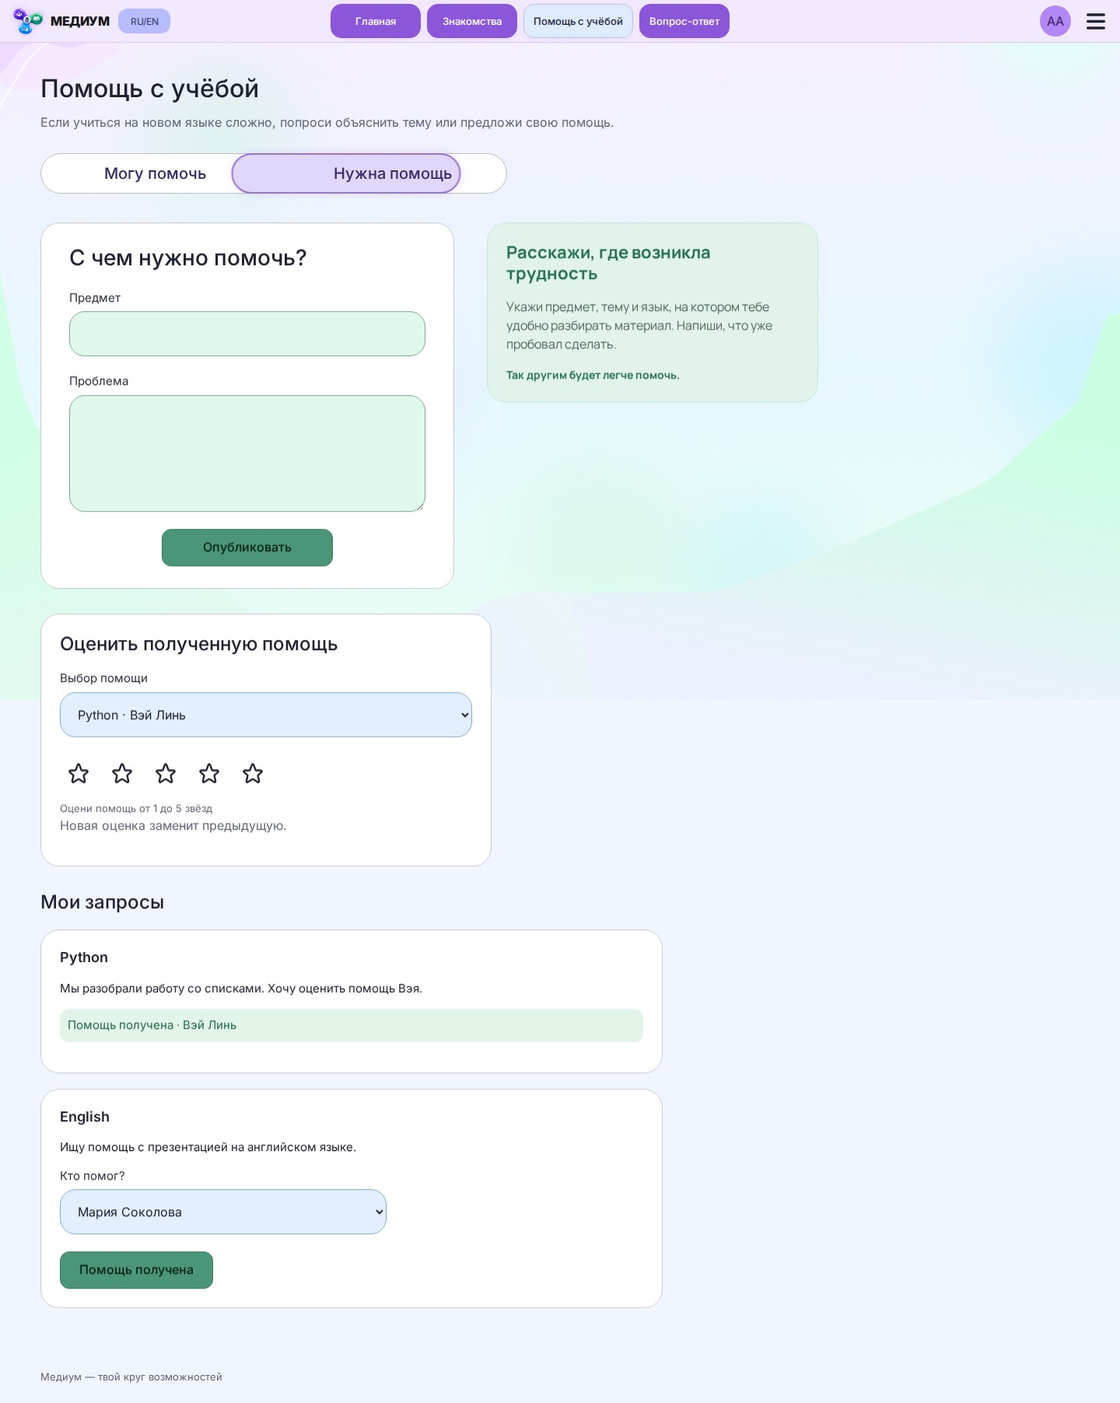
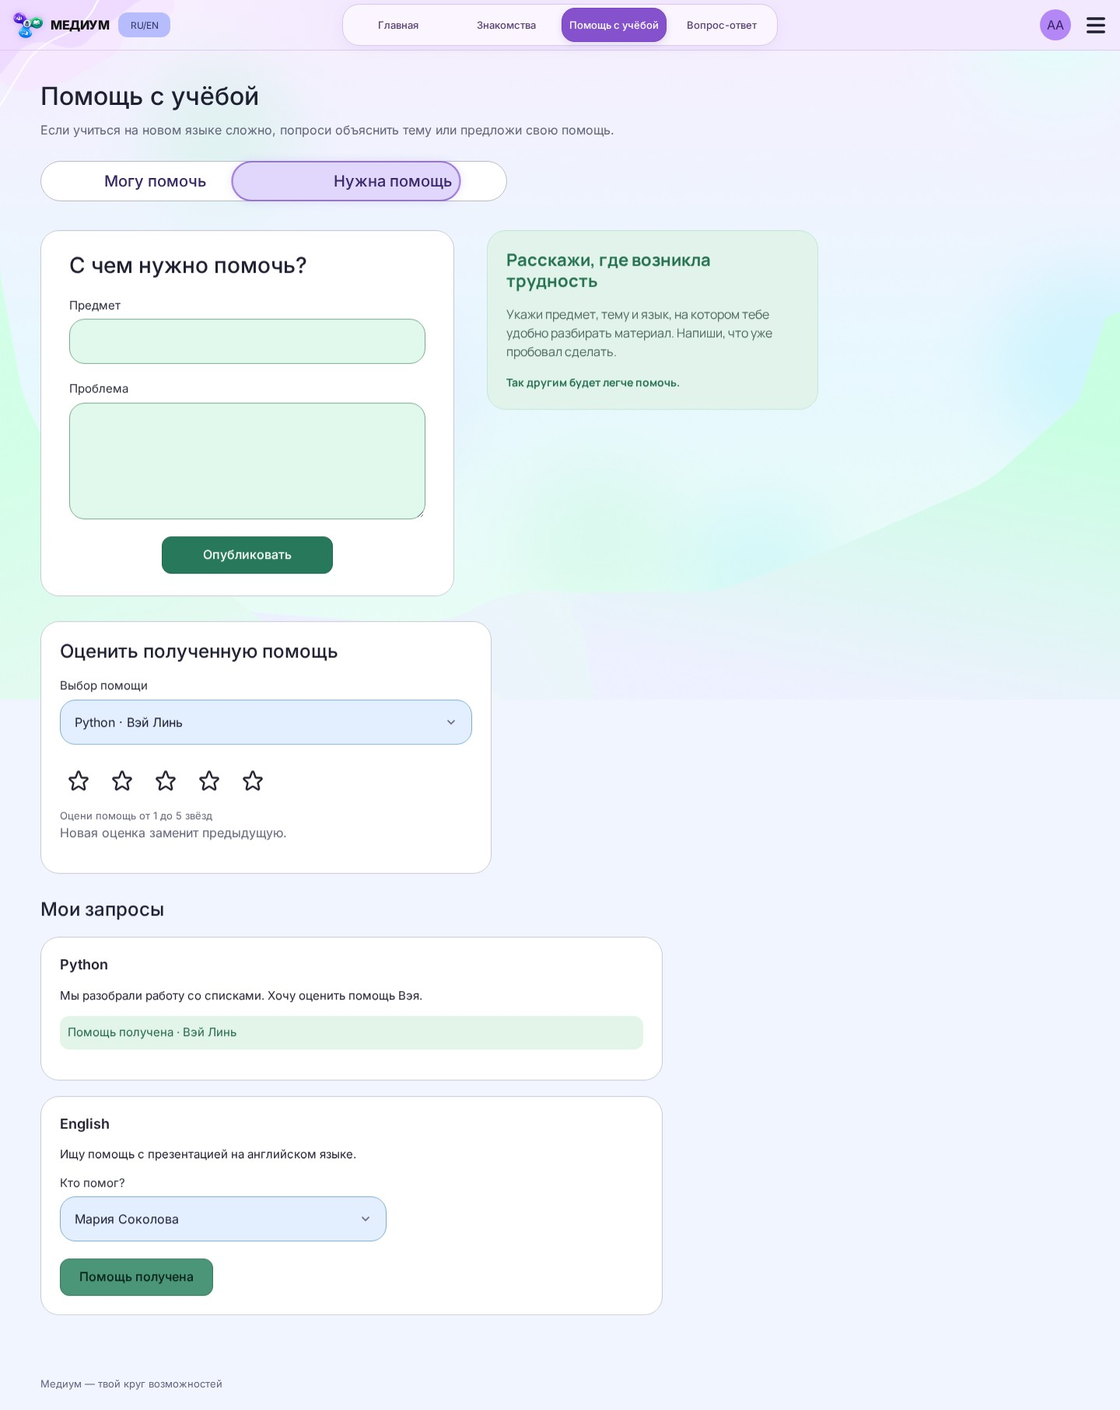
Record verified header and filter update in Amvera [skip ci]

diff --git a/docs/REPORT.md b/docs/REPORT.md
@@ -1,6 +1,6 @@
 # Короткий отчёт по frontend
 
-Проект «Медиум — твой круг возможностей». Проверен 7 октября 2026 года.
+Проект «Медиум — твой круг возможностей». Проверен 8 октября 2026 года.
 
 ## Аудитория и задача проекта
 
@@ -47,11 +47,13 @@
 
 После обновления интерфейса на Ubuntu в GitHub Actions прошли все 33 E2E-сценария в Chromium, Firefox и WebKit. В окончательном прогоне ошибок и нестабильных тестов нет. Свежие скриншоты главной, профиля и рейтинга проверены на ПК и телефоне. Английские варианты изменённых страниц также проверены на четырёх размерах.
 
+Правки от 8 октября: волна поднята за логотип в шапке, навигация на ПК собрана в общий блок и отцентрирована. Выпадающие фильтры оформлены как выбор языка; стрелки стоят по центру, в 18 пикселях от правого края. Кнопка «Опубликовать» использует белую надпись на зелёном фоне. В кратком рейтинге написано «Топ-5», в тексте главной уточнена помощь иностранным студентам. Подробности — в `HEADER.md`.
+
 ## Репозиторий и результат CI
 
-[Успешная проверка GitHub Actions](https://github.com/JustEd10/medium-student-community/actions/runs/37683050939): 7 тестов логики, 33 E2E сценария и production-сборка прошли. Проверенный коммит приложения: `139fd03ae8d65a0514b6e2c8338ce72d0b864926`. Результат записан в `ci-check.json`. Локальный запуск отдельных браузеров был заблокирован macOS; независимая проверка выполнена в CI.
+[Успешная проверка GitHub Actions](https://github.com/JustEd10/medium-student-community/actions/runs/37687775820): 7 тестов логики, 33 E2E сценария и production-сборка прошли. Проверенный коммит приложения: `bbc2929a60e2005348d2ac2ad7ae8c699fde406c`. Результат записан в `ci-check.json`. Локальный запуск отдельных браузеров был заблокирован macOS; независимая проверка выполнена в CI.
 
-GitHub: [JustEd10/medium-student-community](https://github.com/JustEd10/medium-student-community). Репозиторий публичный и доступен без входа в аккаунт. Исходники, тесты, отчёт и 21 скриншот загружены в ветку `main`. Сайт опубликован: [medium-bob01.amvera.io](https://medium-bob01.amvera.io/). Развёртывание выполнено через Safari в приложении Amvera `medium`: Docker собирает проверенные исходники, Nginx отдаёт production-сборку на порту 80. После повторного запуска работают 1 из 1 реплик. HTML и все 16 файлов совпадают с локальной production-сборкой и возвращают HTTP 200. На опубликованной версии проверены мягкие галочки, навигация и самолётик по центру поля сообщения; чат проверен на ПК и телефоне. Результат записан в `deployment-check.json`.
+GitHub: [JustEd10/medium-student-community](https://github.com/JustEd10/medium-student-community). Репозиторий публичный и доступен без входа в аккаунт. Исходники, тесты, отчёт и 21 скриншот загружены в ветку `main`. Сайт опубликован: [medium-bob01.amvera.io](https://medium-bob01.amvera.io/). Развёртывание выполнено через Safari в приложении Amvera `medium`: Docker собирает проверенные исходники, Nginx отдаёт production-сборку на порту 80. После повторного запуска работают 1 из 1 реплик. HTML и все 16 файлов совпадают с локальной production-сборкой и возвращают HTTP 200. На опубликованной версии проверены центр навигации и волна в шапке, белая надпись «Опубликовать», «Топ-5», уточнённый текст главной и выпадающие фильтры на ПК и телефоне. Результат записан в `deployment-check.json`.
 
 Данные сохраняются в браузере. Для реального обмена между пользователями нужен backend с авторизацией, базой данных и серверным хранением сообщений и оценок. В рамках задания сделана frontend-часть.
 

diff --git a/docs/AMVERA.md b/docs/AMVERA.md
@@ -4,9 +4,9 @@
 
 Сайт работает в приложении `medium`, аккаунте `bob01`, регионе `msk0`. Для публикации через Safari в раздел Code загружены `Dockerfile` и `source.tar.gz`, затем запущена сборка. Создан бесплатный внешний HTTPS-домен. Дополнительные реплики и тариф не менялись.
 
[2 lines of base64/hex data omitted]
 
-Архив загружен через Safari в коммит Amvera `650dbac8a611b06a2b7034866ca0452db056bf5c`. Конфигурация Docker с портом 80 сохранена в `amvera.yml`, итоговый коммит — `deee93eb9df51e40c7f241224364edbc96ee4fab`. После сборки подтверждены статус «Запущено» и 1 из 1 реплик. HTML и 16 файлов — JavaScript, CSS, фон, два логотипа и 11 SVG-иконок — совпадают с локальной production-сборкой и возвращают HTTP 200. На опубликованной версии проверены галочки, навигация, закреплённое поле ввода и самолётик; чат также проверен при ширине 390 пикселей. Результат записан в `deployment-check.json`.
+Архив загружен через Safari в коммит Amvera `ddea5a3fd02f6ec4a26748d5c7c4e3b423a0f898`. Сохранённая конфигурация Docker использует `amvera.yml` и порт 80. После сборки подтверждены статус «Запущено» и 1 из 1 реплик. HTML и 16 файлов — JavaScript, CSS, фон, два логотипа и 11 SVG-иконок — совпадают с локальной production-сборкой и возвращают HTTP 200. На опубликованной версии проверены центр навигации, волна в шапке, белая надпись «Опубликовать», «Топ-5», текст главной и одинаковые выпадающие фильтры на ПК и при ширине 390 пикселей. Результат записан в `deployment-check.json`.
 
 ## Повторная публикация через Safari
 

diff --git a/docs/HEADER.md b/docs/HEADER.md
@@ -1,0 +1,15 @@
+# Шапка и навигация — 8 октября 2026 года
+
+Волна из исходного фона Figma теперь продолжается за логотипом в верхней строке. Декоративный слой закреплён в шапке, не перехватывает нажатия и плавно сливается с её лавандовой заливкой.
+
+Навигация на ПК собрана в общий светлый блок. Активный раздел выделен фиолетовой кнопкой с белым текстом; остальные разделы используют тёмные подписи. Кнопки одинаковой ширины и высотой не меньше 44 пикселей. Состояния фокуса и активной страницы сохранены.
+
+У шапки три колонки: логотип и язык слева, навигация в центре, вход или профиль и меню справа. Боковые колонки имеют одинаковую ширину, поэтому центр навигации совпадает с центром шапки независимо от входа в аккаунт. В компактном варианте ПК подпись регистрации сокращается до «Начать». На телефоне остаются меню и нижняя навигация.
+
+Геометрия проверена при ширине 1920, 1440, 1280, 1024, 901, 768, 390 и 320 пикселей: наложений кнопок и переполнения нет.
+
+Выпадающие фильтры оформлены как выбор языка: высота 50 пикселей, скругление 30 пикселей, светлая лавандовая заливка и общий шеврон. Стрелка рисуется внутри поля по центру, с отступом 18 пикселей справа; для текста оставлены 48 пикселей. Нативные списки и управление клавиатурой сохранены.
+
+У кнопки «Опубликовать» в форме запроса помощи белая надпись на зелёном фоне `#28795b`. Подпись краткого рейтинга изменена на «Топ-5». На главной и в форме входа уточнён текст о помощи иностранным студентам; английская версия обновлена соответственно.
+
+Проверка [GitHub Actions 37687775820](https://github.com/JustEd10/medium-student-community/actions/runs/37687775820) прошла: 7 тестов логики, 33 браузерных сценария и сборка. Проверенный коммит — `bbc2929a60e2005348d2ac2ad7ae8c699fde406c`. Версия опубликована в Amvera; HTML и 16 основных ресурсов совпадают с локальной сборкой. На опубликованном сайте центр навигации совпадает с центром шапки, у выпадающих фильтров одинаковые высота и отступ стрелки на ПК и телефоне.

diff --git a/README.md b/README.md
@@ -83,7 +83,7 @@ npm run test:e2e
 
 Сборка и 7 тестов правил приложения прошли. В браузере Codex проверены пользовательские сценарии при ширине 1440, 768, 390 и 320 пикселей, выбор звёзд клавиатурой и доступность через axe. Результаты и ограничения описаны в [отчёте](docs/REPORT.md).
 
-В GitHub Actions прошли 33 end-to-end теста production-сборки в Chromium, Firefox и WebKit, 7 тестов логики и сама сборка. Проверены 240 сочетаний языка, маршрута и ширины и 18 гостевых вариантов на телефонах, 18 вариантов анимаций с обычным и уменьшенным движением, клавиатура, формы, чат, оценки и 84 автоматические проверки доступности. [Успешный запуск CI](https://github.com/JustEd10/medium-student-community/actions/runs/37683050939) проверил код коммита `139fd03`. В локальной среде macOS отдельные процессы браузеров были заблокированы; кроссбраузерная проверка выполнена на Ubuntu в CI. Workflow использует официальные [checkout](https://github.com/actions/checkout), [setup-node](https://github.com/actions/setup-node) и [upload-artifact](https://github.com/actions/upload-artifact).
+В GitHub Actions прошли 33 end-to-end теста production-сборки в Chromium, Firefox и WebKit, 7 тестов логики и сама сборка. Проверены 240 сочетаний языка, маршрута и ширины и 18 гостевых вариантов на телефонах, 18 вариантов анимаций с обычным и уменьшенным движением, клавиатура, формы, чат, оценки и 84 автоматические проверки доступности. [Успешный запуск CI](https://github.com/JustEd10/medium-student-community/actions/runs/37687775820) проверил код коммита `bbc2929`. В локальной среде macOS отдельные процессы браузеров были заблокированы; кроссбраузерная проверка выполнена на Ubuntu в CI. Workflow использует официальные [checkout](https://github.com/actions/checkout), [setup-node](https://github.com/actions/setup-node) и [upload-artifact](https://github.com/actions/upload-artifact).
 
 В режиме разработки можно открыть инструменты проверки:
 

diff --git a/docs/screenshots/README.md b/docs/screenshots/README.md
@@ -1,6 +1,6 @@
 # Скриншоты реализации
 
-Скриншоты сняты Playwright в Chromium после обновления интерфейса и прокрутки чатов от 7 октября 2026 года. Размер окна: 1440 × 900 для ПК и 390 × 844 для телефона. Длинные страницы сняты целиком. На экранах видны демо-профили, вопросы и запросы помощи.
+Скриншоты сняты Playwright в Chromium после обновления шапки, кнопки публикации и выпадающих списков от 8 октября 2026 года. Размер окна: 1440 × 900 для ПК и 390 × 844 для телефона. Длинные страницы сняты целиком. На экранах видны демо-профили, вопросы и запросы помощи.
 
 | Экран | ПК | Телефон |
 | --- | --- | --- |
@@ -14,7 +14,7 @@
 | Запрос помощи | [Открыть](desktop-help-rating.jpg) | [Открыть](mobile-help-rating.jpg) |
 | Переписка | [Открыть](desktop-chat.jpg) | [Открыть](mobile-chat.jpg) |
 
-Источник: [GitHub Actions, запуск 37683050939](https://github.com/JustEd10/medium-student-community/actions/runs/37683050939), коммит `139fd03ae8d65a0514b6e2c8338ce72d0b864926`. В CI прошли 33 браузерных сценария в Chromium, Firefox и WebKit; проверены также английские версии шести изменённых страниц при ширине 1440, 768, 390 и 320 пикселей.
+Источник: [GitHub Actions, запуск 37687775820](https://github.com/JustEd10/medium-student-community/actions/runs/37687775820), коммит `bbc2929a60e2005348d2ac2ad7ae8c699fde406c`. В CI прошли 33 браузерных сценария в Chromium, Firefox и WebKit; проверены также английские версии шести изменённых страниц при ширине 1440, 768, 390 и 320 пикселей.
 
 Гостевые экраны телефона: [главная](mobile-guest-home.jpg), [вопрос с кнопкой возврата](mobile-guest-answer.jpg).
 
